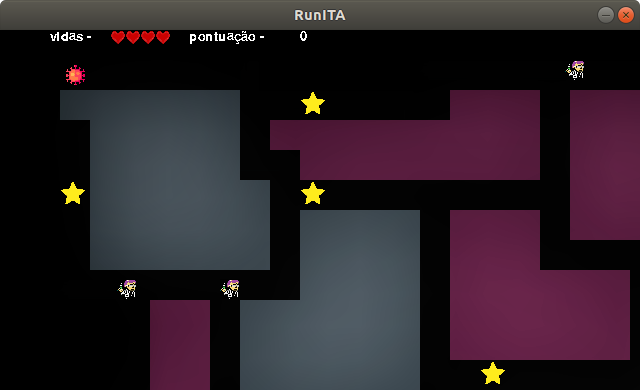
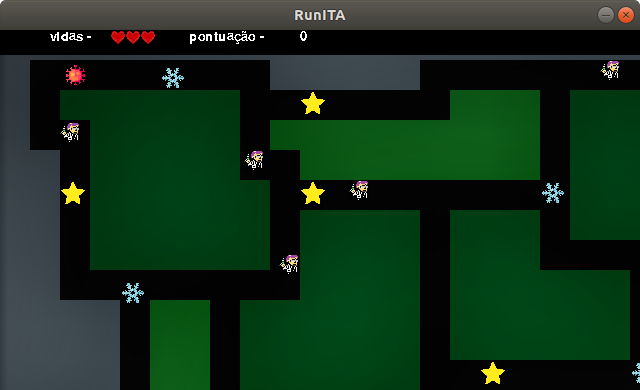
final corrections

diff --git a/CodeSource/main.py b/CodeSource/main.py
@@ -216,10 +216,11 @@ def options():
         screen.fill([255, 255, 255])
         screen.blit(BackGround.image, BackGround.rect)
         draw_text('Controles e elementos do jogo:', font, (0, 255, 0), screen, 20, 20)
-        draw_text('Setas do teclado - movimentação', font, (0, 255, 0), screen, 40, 80)
-        draw_text('Estrela - PowerUps', font, (0, 255, 0), screen, 40, 140)
-        draw_text('Médico - Inimigo! Corra!', font, (0, 255, 0), screen, 40, 200)
-        draw_text('Esc - voltar', font, (0, 255, 0), screen, 40, 300)
+        draw_text('Setas do teclado - Movimentação', font, (0, 255, 0), screen, 40, 80)
+        draw_text('Estrela - Aumento da velocidade do player', font, (0, 255, 0), screen, 40, 140)
+        draw_text('Floco de neve - Aumento da pontuação', font, (0, 255, 0), screen, 40, 200)
+        draw_text('Médico - Inimigo! Corra!', font, (0, 255, 0), screen, 40, 260)
+        draw_text('Esc - Voltar', font, (0, 255, 0), screen, 40, 320)
         for event in pygame.event.get():
             if event.type == QUIT:
                 pygame.quit()

diff --git a/CodeSource/SalvarInformacoesJogo.py b/CodeSource/SalvarInformacoesJogo.py
@@ -41,7 +41,7 @@ player = (65, 65)
 end_phase = (85, 1345)
 inimigo_aleatorio = [(65, 665), (605, 455), (695, 95), (1115, 215), (1385, 515), (425, 665), (335, 995), (275, 1325), (785, 1385), (1085, 1055)]
 bullets = [(750, 95), (1080, 215), (1380, 485), (480, 665), (150, 365), (60, 665), (270, 995), (270, 1175), (900, 1205), (930, 875), (1380,695), (660, 455)]
-bullets2 = [(160, 175), (455, 95), (485, 270), (335, 555), (215, 755), (120, 1070), (690, 1175), (540, 900), (600, 665), (845, 445),
+bullets2 = [(155, 175), (455, 95), (485, 270), (335, 555), (215, 755), (120, 1070), (690, 1175), (540, 900), (600, 665), (845, 445),
             (965, 325), (1345, 125), (1295, 665), (1055, 875), (1205, 1050), (1240, 1390), (60, 460), (460, 995), (930, 665), (1385, 1175)]
 
 Fase3 = {

diff --git a/README.md b/README.md
@@ -19,7 +19,7 @@ Para passar de fase, o jogador deverá encontrar o portal, designado pela imagem
 Além disso, há dois tipos de inimigos: os que andam aleatoriamente e os que perseguem o personagem.
 Não é possível saber qual dos dois tipos o inimigo é, então tome cuidado!
 
-O personagem poderá capturar as estrelas do cenário, e assim aumentar sua velocidade por um determinado período.
+O personagem poderá capturar as estrelas do cenário, e assim aumentar sua velocidade por um determinado período. Os flocos de neve aumentam a pontuação do jogador.
 
 Ao ser capturado mais do que quatro vezes, o jogo é encerrado e há a opção para recomeçar.
 
